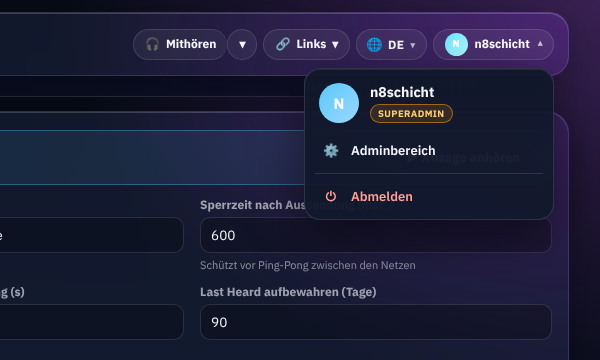
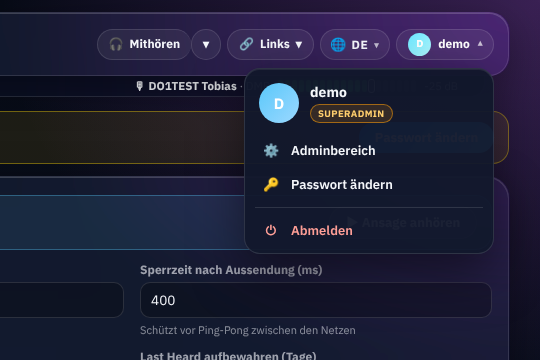
1.29.1: Eigenes Passwort ändern – auch als Superadmin
- eigene Zeile in 👥 Benutzer nicht mehr gesperrt: Formular „Mein Konto“ (Anzeigename, aktuelles Passwort, neues Passwort 2x)
- Benutzermenü: 🔑 Passwort ändern; Hinweis Standard-Login führt direkt dorthin
- Server: eigenes Konto nur mit aktuellem Passwort (1 s Bremse), andere Anmeldungen werden beendet, Rolle/Sperre tabu
- Superadmin-Hinweis zum Backup-Schlüssel; Doku SICHERHEIT/BACKUP/README, Bildschirmfotos, CHANGELOG
- Test tests/test_own_password.py

Claude-Session: https://claude.ai/code/session_01J5RG2pZbR7RFTTq8Gdx1vy

diff --git a/n8crosslink/web/static/n8-kit.js b/n8crosslink/web/static/n8-kit.js
@@ -953,16 +953,24 @@
             const load = async () => {
                 let users; try { users = await A.list(); } catch (e) { paint(card('👥 Benutzer', msg(e))); return; }
                 const inp = (f, u) => `<input name="${f}" placeholder="${esc(t(FIELD[f][0]))}" ${FIELD[f][1] === 'numeric' ? 'inputmode="numeric"' : ''} value="${esc(u ? (u[f] ?? '') : '')}">`;
+                const isMe = u => me && u.username === me.username;
                 const rows = users.map((u, i) => {
                     const lk = locked(u);
                     return `<tr class="${u.disabled ? 'off' : ''}"><td><span class="n8-user-c">${o.avatar ? o.avatar(u) : `<span class="n8-av">${initials(u)}</span>`}
-                            <span><b>${esc(u.username)}</b>${u.display_name ? `<br><small>${esc(u.display_name)}</small>` : ''}</span></span></td>
+                            <span><b>${esc(u.username)}</b>${isMe(u) ? ` <span class="n8-role n8-role-me">${esc(t('du'))}</span>` : ''}${u.display_name ? `<br><small>${esc(u.display_name)}</small>` : ''}</span></span></td>
                         <td>${role(u.role)}${u.disabled ? ` <span class="n8-role n8-role-off">${esc(t('gesperrt'))}</span>` : ''}</td>
                         ${fields.filter(f => f !== 'display_name').map(f => `<td>${esc(u[f] || '–')}</td>`).join('')}
                         ${cols.map(c => `<td>${c.html(u)}</td>`).join('')}
                         <td>${esc(ago(u.last_login))}</td>
                         <td class="n8-act">${(o.actions ? o.actions(u) : []).map((a, k) => `<button type="button" class="n8-btn sm" data-x="${i}:${k}">${esc(t(a.label))}</button>`).join('')}${lk ? `<small class="n8-dim">${esc(lk)}</small>` : `<button type="button" class="n8-btn sm" data-edit="${i}">${esc(t('Bearbeiten'))}</button>`}</td></tr>
-                        ${lk ? '' : `<tr class="n8-edit" data-row="${i}" hidden><td colspan="${4 + cols.length + fields.filter(f => f !== 'display_name').length}"><form class="n8-iform" data-i="${i}">
+                        ${lk ? '' : isMe(u) ? `<tr class="n8-edit n8-self" data-row="${i}" ${o.openSelf ? '' : 'hidden'}><td colspan="${4 + cols.length + fields.filter(f => f !== 'display_name').length}"><form class="n8-iform" data-i="${i}" data-self="1">
+                            <b class="n8-self-h">🔑 ${esc(t('Mein Konto'))}</b>
+                            ${fields.map(f => inp(f, u)).join('')}
+                            <input name="current_password" type="password" placeholder="${esc(t('Aktuelles Passwort'))}" autocomplete="current-password">
+                            <input name="password" type="password" placeholder="${esc(t('Neues Passwort (min. {n})').replace('{n}', minPw))}" minlength="${minPw}" autocomplete="new-password">
+                            <input name="password2" type="password" placeholder="${esc(t('Neues Passwort wiederholen'))}" autocomplete="new-password">
+                            <button class="n8-btn primary sm" type="submit">${esc(t('Speichern'))}</button>
+                            <small class="n8-dim">${esc(t(o.selfNote || 'Rolle, Sperre und Löschen gehen beim eigenen Konto nicht. Nach dem Passwortwechsel werden deine anderen Anmeldungen beendet.'))}</small></form></td></tr>` : `<tr class="n8-edit" data-row="${i}" hidden><td colspan="${4 + cols.length + fields.filter(f => f !== 'display_name').length}"><form class="n8-iform" data-i="${i}">
                             ${fields.map(f => inp(f, u)).join('')}
                             <input name="password" type="password" placeholder="${esc(t('Neues Passwort (optional)'))}" autocomplete="new-password">
                             <select name="role">${opts(u.role)}</select>
@@ -988,8 +996,21 @@
                 el.querySelectorAll('[data-edit]').forEach(b => b.onclick = () => { const r = el.querySelector(`tr[data-row="${b.dataset.edit}"]`); r.hidden = !r.hidden; });
                 el.querySelectorAll('[data-x]').forEach(b => b.onclick = () => { const [i, k] = b.dataset.x.split(':').map(Number); o.actions(users[i])[k].run(users[i], load); });
                 el.querySelectorAll('form[data-i]').forEach(f => f.onsubmit = async e => {
-                    e.preventDefault(); const d = fd(f); if (!d.password) delete d.password;
-                    try { await A.update(users[f.dataset.i], d); toast(t('Gespeichert')); load(); } catch (x) { toast(x.message, true); }
+                    e.preventDefault(); const d = fd(f);
+                    if (f.dataset.self) {
+                        if (d.password) {
+                            if (d.password !== d.password2) { toast(t('Die beiden neuen Passwörter stimmen nicht überein'), true); return; }
+                            if (!d.current_password) { toast(t('Bitte das aktuelle Passwort eingeben'), true); return; }
+                        } else { delete d.current_password; delete d.password2; }
+                    }
+                    if (!d.password) delete d.password;
+                    try {
+                        const r = await A.update(users[f.dataset.i], d);
+                        if (r && r.password_changed) toast(t('Passwort geändert') + (r.sessions_ended ? ' · ' + t('{n} andere Anmeldung(en) beendet').replace('{n}', r.sessions_ended) : ''));
+                        else toast(t('Gespeichert'));
+                        if (r && r.password_changed && o.onSelfPassword) o.onSelfPassword(users[f.dataset.i]);
+                        o.openSelf = false; load();
+                    } catch (x) { toast(x.message, true); }
                 });
                 el.querySelectorAll('[data-del]').forEach(b => b.onclick = async () => {
                     if (!b.dataset.armed) { b.dataset.armed = '1'; b.textContent = t('Wirklich löschen?'); return; }
@@ -1184,6 +1205,7 @@
             // 1.4.0: Benutzer & Zugang, Netz, Ports & Domains
             '🌐 Netz, Ports & Domains': '🌐 Network, ports & domains', '👥 Benutzer': '👥 Users', '🔑 Sitzungen': '🔑 Sessions', '📜 Protokoll': '📜 Log',
             'Benutzer': 'User', 'Rolle': 'Role', 'Letzte Anmeldung': 'Last login', 'Bearbeiten': 'Edit', 'gesperrt': 'disabled', 'Anzeigename': 'Display name',
+            'Mein Konto': 'My account', 'Aktuelles Passwort': 'Current password', 'Neues Passwort (min. {n})': 'New password (min. {n})', 'Neues Passwort wiederholen': 'Repeat new password', 'Passwort geändert': 'Password changed', '{n} andere Anmeldung(en) beendet': '{n} other login(s) ended', 'Die beiden neuen Passwörter stimmen nicht überein': 'The two new passwords do not match', 'Bitte das aktuelle Passwort eingeben': 'Please enter the current password', 'du': 'you', 'Rolle, Sperre und Löschen gehen beim eigenen Konto nicht. Nach dem Passwortwechsel werden deine anderen Anmeldungen beendet.': 'Role, lock and delete are not available for your own account. After changing the password, your other logins are ended.', 'Passwort ändern': 'Change password',
             'Rufzeichen': 'Callsign', 'Benutzername': 'Username', 'Passwort (min. {n})': 'Password (min. {n})', 'Neues Passwort (optional)': 'New password (optional)',
             'Benutzer anlegen': 'Add user', 'Löschen': 'Delete', 'Wirklich löschen?': 'Really delete?', 'Benutzer angelegt': 'User created', 'Benutzer gelöscht': 'User deleted',
             'nur Superadmin': 'superadmin only', 'Superadmin': 'Superadmin', 'Admin': 'Admin', 'Betrachter': 'Viewer', 'Autor': 'Author', 'Redakteur': 'Editor',

diff --git a/n8crosslink/web/static/crosslink.js b/n8crosslink/web/static/crosslink.js
@@ -530,6 +530,7 @@ async function loadMe() {
     onLogout: async () => { await api('/api/logout', { method: 'POST' }); await loadMe(); showTab('live'); },
     items: [
       { icon: '⚙', label: 'Adminbereich', onClick: () => showTab('admin') },
+      { icon: '🔑', label: 'Passwort ändern', onClick: () => openOwnAccount() },
     ],
   });
   if (S.me.user) checkCrashes(before === false);      // gerade angemeldet: neue Abstürze sofort zeigen
@@ -846,7 +847,9 @@ function accessView(name) {
     roles: [{ id: 'superadmin', label: 'Superadmin', assign: 'superadmin' }, { id: 'admin', label: 'Admin', assign: 'all' }],
     fields: ['display_name'], toast: (m, bad) => toast((bad ? '⚠ ' : '✅ ') + m),
     intro: 'Wer sich am Adminbereich anmelden darf. Superadmins dürfen zusätzlich Backups wiederherstellen, alles zurücksetzen und andere Superadmins verwalten.',
-    locked: (u, me) => u.username === me.username ? 'du' : (u.role === 'superadmin' && me.role !== 'superadmin' ? 'nur Superadmin' : ''),
+    locked: (u, me) => u.username === me.username ? '' : (u.role === 'superadmin' && me.role !== 'superadmin' ? 'nur Superadmin' : ''),
+    openSelf: name === 'users' && S.openSelf ? (S.openSelf = false, true) : false,
+    onSelfPassword: () => { if (S.me.role === 'superadmin') toast('🔐 Neue Backups verschlüsselt jetzt das neue Passwort. Ältere Backups öffnest du weiter mit dem alten Passwort.'); loadMe(); },
   });
 }
 
@@ -1066,7 +1069,8 @@ async function startUpdate(u) {
     timeout: 600000,
   });
 }
-$('#pwChangeBtn')?.addEventListener('click', () => { S.adminSec = 'users'; showTab('admin'); });
+function openOwnAccount() { S.openSelf = true; S.adminSec = 'users'; showTab('admin'); }
+$('#pwChangeBtn')?.addEventListener('click', openOwnAccount);
 
 $('#spOk').addEventListener('click', () => $('#statusModal').classList.remove('open'));
 

diff --git a/n8crosslink/web/static/n8-kit.css b/n8crosslink/web/static/n8-kit.css
@@ -404,3 +404,8 @@ html[data-theme-mode=light] :is(.n8-iform > input, .n8-iform > select, .n8-in) {
   .n8-tbl td.n8-num .n8-in { width: 90px; }
 }
 .n8-tbl select.n8-target { min-width: 180px; width: auto; }
+/* 👥 eigenes Konto: „du“-Kennzeichen und Formular „Mein Konto“ (Passwort nur mit dem aktuellen Passwort) */
+.n8-role-me { color: #8fdcff; border-color: rgba(90, 200, 250, .5); background: rgba(90, 200, 250, .12); }
+.n8-self .n8-iform { flex-wrap: wrap; }
+.n8-self-h { align-self: center; margin-right: 4px; white-space: nowrap; }
+.n8-self small { flex-basis: 100%; }

diff --git a/tests/test_own_password.py b/tests/test_own_password.py
@@ -1,0 +1,61 @@
+#!/usr/bin/env python3
+"""👥 Eigenes Konto: auch ein Superadmin ändert sein Passwort selbst – nur mit dem aktuellen Passwort,
+andere Anmeldungen enden, die aktuelle bleibt, Rolle/Sperre des eigenen Kontos bleiben tabu.
+
+  python3 tests/test_own_password.py      (oder pytest)
+"""
+from __future__ import annotations
+
+import os
+import sys
+import tempfile
+from pathlib import Path
+
+sys.path.insert(0, str(Path(__file__).resolve().parent.parent))
+
+from fastapi.testclient import TestClient  # noqa: E402
+
+from n8crosslink.app import Bridge  # noqa: E402
+from n8crosslink.db import Database  # noqa: E402
+from n8crosslink.web.server import create_app  # noqa: E402
+
+
+def client(app):
+    return TestClient(app, headers={"X-N8": "1"})
+
+
+def test_superadmin_changes_own_password():
+    db = Database(os.path.join(tempfile.mkdtemp(), "t.db"))
+    db.set_user("chef", "altes-passwort", "superadmin")
+    app = create_app(Bridge(db))
+    a, b = client(app), client(app)
+    for c in (a, b):
+        assert c.post("/api/login", json={"username": "chef", "password": "altes-passwort"}).status_code == 200
+    url = "/api/admin/users/chef"
+    # ohne / mit falschem aktuellem Passwort: abgelehnt
+    assert a.patch(url, json={"password": "neues-passwort1"}).status_code == 403
+    assert a.patch(url, json={"password": "neues-passwort1", "current_password": "falsch"}).status_code == 403
+    # Wiederholung passt nicht / zu kurz / gleich wie alt
+    assert a.patch(url, json={"password": "neues-passwort1", "password2": "anders", "current_password": "altes-passwort"}).status_code == 400
+    assert a.patch(url, json={"password": "kurz", "current_password": "altes-passwort"}).status_code == 400
+    assert a.patch(url, json={"password": "altes-passwort", "current_password": "altes-passwort"}).status_code == 400
+    # eigene Rolle / Sperre: nein
+    assert a.patch(url, json={"role": "admin"}).status_code == 400
+    assert a.patch(url, json={"disabled": True}).status_code == 400
+    # richtig
+    r = a.patch(url, json={"password": "neues-passwort1", "password2": "neues-passwort1", "current_password": "altes-passwort",
+                           "role": "superadmin", "disabled": False, "display_name": "Der Chef"})
+    assert r.status_code == 200 and r.json()["password_changed"] and r.json()["sessions_ended"] == 1, r.text
+    assert db.check_login("chef", "neues-passwort1") and not db.check_login("chef", "altes-passwort")
+    assert db.user_role("chef") == "superadmin"
+    assert a.get("/api/me").json()["user"] == "chef"          # diese Anmeldung bleibt
+    assert b.get("/api/me").json()["user"] is None            # die andere ist beendet
+    h = db.conn.execute("SELECT pw_hash FROM users WHERE username='chef'").fetchone()[0]
+    assert h.startswith("pbkdf2_sha256$") and "neues-passwort1" not in h
+    # nur Anzeigename, ohne Passwort: geht ohne aktuelles Passwort
+    assert a.patch(url, json={"display_name": "Chef"}).json()["password_changed"] is False
+
+
+if __name__ == "__main__":
+    test_superadmin_changes_own_password()
+    print("✅ Eigenes Passwort: Prüfungen ok")

diff --git a/n8crosslink/web/server.py b/n8crosslink/web/server.py
@@ -955,10 +955,12 @@ def create_app(bridge) -> FastAPI:  # noqa: ANN001, C901
         return {"ok": True}
 
     @app.patch("/api/admin/users/{name}")
-    async def edit_user(name: str, data: dict = Body(...), me_: str = Depends(require_admin)) -> dict:
+    async def edit_user(name: str, request: Request, data: dict = Body(...), me_: str = Depends(require_admin)) -> dict:
         cur = db.user_role(name)
         if not cur:
             raise HTTPException(404, "Benutzer nicht gefunden")
+        if name == me_:
+            return await _edit_self(name, request, data)
         _may_manage(me_, cur)
         role = data.get("role")
         if role is not None:
@@ -977,6 +979,33 @@ def create_app(bridge) -> FastAPI:  # noqa: ANN001, C901
         _dflt["t"] = 0.0
         bridge.router.event("info", f"Benutzer {name} geändert durch {me_}")
         return {"ok": True}
+
+    async def _edit_self(name: str, request: Request, data: dict) -> dict:
+        """Eigenes Konto (auch als Superadmin): Anzeigename und Passwort – nur mit dem aktuellen Passwort.
+        Rolle, Sperre und Löschen gibt es für das eigene Konto nicht."""
+        if data.get("role") not in (None, "", db.user_role(name)) or data.get("disabled"):
+            raise HTTPException(400, "Die eigene Rolle und Sperre lassen sich nicht ändern")
+        pw = str(data.get("password") or "")
+        if pw:
+            if len(pw) < 8:
+                raise HTTPException(400, "Passwort min. 8 Zeichen")
+            if "password2" in data and str(data.get("password2") or "") != pw:
+                raise HTTPException(400, "Die beiden neuen Passwörter stimmen nicht überein")
+            ok = await asyncio.to_thread(db.verify_user, name, str(data.get("current_password") or ""))
+            if not ok:
+                await asyncio.sleep(1.0)                 # Raten bremsen
+                raise HTTPException(403, "Aktuelles Passwort ist falsch")
+            if pw == str(data.get("current_password") or ""):
+                raise HTTPException(400, "Das neue Passwort ist dasselbe wie das alte")
+        db.update_user(name, display_name=data.get("display_name"), password=pw or None)
+        ended = db.end_other_sessions(name, request.cookies.get(COOKIE)) if pw else 0
+        _dflt["t"] = 0.0
+        if pw:
+            bridge.router.event("info", f"Benutzer {name} hat das eigene Passwort geändert"
+                                        + (f" – {ended} andere Anmeldung(en) beendet" if ended else ""))
+        else:
+            bridge.router.event("info", f"Benutzer {name} hat das eigene Konto geändert")
+        return {"ok": True, "password_changed": bool(pw), "sessions_ended": ended}
 
     @app.delete("/api/admin/users/{name}")
     async def del_user(name: str, me_: str = Depends(require_admin)) -> dict:

diff --git a/n8crosslink/db.py b/n8crosslink/db.py
@@ -326,6 +326,12 @@ class Database:
         if scope == "all":
             self.set_user(DEFAULT_USER, DEFAULT_PASSWORD, "superadmin")
 
+    def verify_user(self, username: str, password: str) -> bool:
+        """Passwort prüfen, ohne „letzte Anmeldung“ zu ändern (z. B. vor dem eigenen Passwortwechsel)."""
+        with self.lock:
+            row = self.conn.execute("SELECT pw_hash FROM users WHERE username=?", (username,)).fetchone()
+        return bool(row) and verify_password(password, row["pw_hash"])
+
     def check_login(self, username: str, password: str) -> bool:
         with self.lock:
             row = self.conn.execute("SELECT pw_hash, COALESCE(disabled, 0) AS disabled FROM users WHERE username=?", (username,)).fetchone()
@@ -391,6 +397,14 @@ class Database:
                     self.conn.commit()
                 return row["username"]
         return None
+
+    def end_other_sessions(self, username: str, keep_token: str | None) -> int:
+        """Nach eigenem Passwortwechsel: alle anderen Anmeldungen dieses Benutzers beenden, die aktuelle behalten."""
+        keep = self._skey(keep_token) if keep_token else ""
+        with self.lock:
+            n = self.conn.execute("DELETE FROM sessions WHERE username=? AND token<>?", (username, keep)).rowcount
+            self.conn.commit()
+        return n
 
     def end_session(self, token: str) -> None:
         with self.lock:

diff --git a/n8crosslink/__init__.py b/n8crosslink/__init__.py
@@ -1,2 +1,2 @@
 """N8 Crosslink – FRN · DMR · Zello Bridge im Die-N8schicht-Design."""
-__version__ = "1.29.0"
+__version__ = "1.29.1"

diff --git a/README.md b/README.md
@@ -40,7 +40,7 @@ Alles läuft in **einem** Python-Dienst mit Live-Dashboard und Adminportal – i
 | 💾 **Backup** | Alles als vollständig verschlüsselte Datei zum Download (AES-256-GCM). **Der Schlüssel ist das Superadmin-Passwort – im Passwortsafe aufbewahren!** Wiederherstellen im Webinterface, per CLI oder direkt im Installer. |
 | ♻ **Neuanfang** | Zurücksetzen im Webinterface (Verlauf / Einstellungen / alles) und `uninstall.sh` mit „Daten behalten“ oder „komplett entfernen“, inkl. Wiedereinschalten der alten Dienste |
 | 📊 **Dashboard** | On-Air-Anzeige mit Pegel und Zeit, Netzkarten mit RX/TX – **LEDs: 🔴 Rot = Senden, 🟣 Magenta = Empfangen, 🟢 Grün = Dienst ok** –, Last Heard, FRN-Raumliste, Ereignisse, Statistik (Heute … 90 Tage) |
-| ⚙ **Adminportal** | Baum-Menü und Bereich *System* wie in allen N8-Systemen, alle Einstellungen in SQLite, **👥 Benutzer & 🔑 Sitzungen** wie in HBlink4 (Rollen, gesperrt, letzte Anmeldung, Sitzungen beenden), **🌐 Netz, Ports & Domains** (alle Ports, Let's-Encrypt-Domains) an einer Stelle, Bridge-/Dienst-Neustart, ID-Datenbank-Update, Export/Import |
+| ⚙ **Adminportal** | Baum-Menü und Bereich *System* wie in allen N8-Systemen, alle Einstellungen in SQLite, **👥 Benutzer & 🔑 Sitzungen** wie in HBlink4 (Rollen, gesperrt, letzte Anmeldung, Sitzungen beenden; **eigenes Passwort ändern – auch als Superadmin** über 🔑 im Benutzermenü), **🌐 Netz, Ports & Domains** (alle Ports, Let's-Encrypt-Domains) an einer Stelle, Bridge-/Dienst-Neustart, ID-Datenbank-Update, Export/Import |
 | 🔊 **Sprachansage & Sprechername** | Optional: Computerstimme sagt das Rufzeichen am Anfang des Durchgangs an (espeak-ng, Buchstaben oder NATO, je Zielnetz). Sprechername als FRN-Textnachricht – öffentlich oder **privat nur an ausgewählte Stationen** |
 | 🐕 **Watchdogs** | Jede Verbindung (FRN, DMR, Zello) baut sich nach einem Abbruch selbst neu auf; zusätzlich baut ein Watchdog ein Netz komplett neu auf, wenn es zu lange offline bleibt oder seine Verbindungsschleife stirbt. Der Vocoder wird bei Ausfall neu geöffnet (AMBEserver im Lockstep mit neuem Socket nach jedem Timeout), und der systemd-Watchdog startet den Dienst neu, falls er hängt. **💓 Keep-Alive** von außen (jede Minute als root): prüft jedes Netz, startet nach 5 Minuten Ausfall neu, erkennt Internet-Ausfälle, meldet sich bei Uptime Kuma / Healthchecks.io |
 | 💥 **Absturz-Erkennung** | Jeder Absturz, Hänger und Notfall-Neustart wird mit Ursache, betroffenem Teil (FRN, DMR, Zello, Vocoder, Datenbank …) und vollständigem Protokoll festgehalten, der Dienst automatisch neu gestartet; neue Befunde erscheinen nach dem Admin-Login als Hinweisfenster (System → 💥 Abstürze) |

diff --git a/CHANGELOG.md b/CHANGELOG.md
@@ -2,6 +2,29 @@
 
 Alle Änderungen an N8 Crosslink. Versionierung nach [SemVer](https://semver.org/lang/de/).
 
+## [1.29.1] – 2026-11-27
+
+### 🔑 Eigenes Passwort ändern – auch als Superadmin
+
+- Bisher war die **eigene Zeile** in *👥 Benutzer* gesperrt („du“): Ein Superadmin konnte sein Passwort nur von einem zweiten
+  Superadmin ändern lassen. Jetzt ändert **jeder sein eigenes Passwort selbst**.
+- Neuer Punkt im Benutzermenü oben rechts: **🔑 Passwort ändern**. Er öffnet *Admin → Benutzer* mit dem Formular **🔑 Mein Konto**
+  (eigene Zeile, gekennzeichnet mit **DU**). Auch der Knopf *Passwort ändern* im Hinweis zum Standard-Login führt direkt dorthin.
+- **Mein Konto:** Anzeigename · **aktuelles Passwort** · neues Passwort (min. 8 Zeichen) · neues Passwort wiederholen.
+  - Ohne oder mit falschem aktuellem Passwort wird abgelehnt (mit 1 s Bremse gegen Raten), ebenso bei abweichender Wiederholung
+    oder wenn das neue Passwort dem alten gleicht.
+  - Nach dem Wechsel werden **alle anderen Anmeldungen** dieses Kontos beendet; die aktuelle bleibt. Die Meldung sagt, wie viele.
+  - Eintrag im 📜 Protokoll: „Benutzer … hat das eigene Passwort geändert“.
+  - Rolle, Sperre und Löschen gibt es für das eigene Konto weiterhin nicht (auch nicht über die API).
+- Gespeichert wird wie bisher nur ein **PBKDF2-SHA256-Hash** (200 000 Runden, eigenes Salz) in der SQLite-Datenbank.
+- **Superadmin:** Nach dem Wechsel erscheint der Hinweis, dass neue Backups mit dem neuen Passwort verschlüsselt werden und ältere
+  weiter mit dem alten zu öffnen sind (auch in [docs/BACKUP.md](docs/BACKUP.md)).
+- Technik: `PATCH /api/admin/users/<eigener Name>` mit `current_password`, `password`, `password2`; neue Funktionen
+  `Database.verify_user()` (prüft, ohne „letzte Anmeldung“ zu ändern) und `Database.end_other_sessions()`. Das N8 Kit
+  (`n8-kit.js`, `n8-kit.css`) kennt dafür das Formular „Mein Konto“ (`openSelf`, `onSelfPassword`), übersetzt ins Englische.
+- Neuer Test `tests/test_own_password.py`. Doku: [docs/SICHERHEIT.md](docs/SICHERHEIT.md) Abschnitt „🔑 Eigenes Passwort ändern“
+  mit neuem Bildschirmfoto `admin-mein-konto.png`; Bildschirmfoto `benutzermenue.png` erneuert.
+
 ## [1.29.0] – 2026-11-27
 
 ### 📊 Flüssige Pegelanzeige und Audio-Spektrum im On-Air-Display

diff --git a/docs/SICHERHEIT.md b/docs/SICHERHEIT.md
@@ -45,7 +45,25 @@ Sitzungs-Cookie `HttpOnly`, `SameSite=Strict`, über HTTPS `Secure`. Jede schrei
 Das **Anmeldefenster** ist in allen N8-Systemen gleich: Logo und Titel des Systems, Benutzername und Passwort mit 👁 zum Anzeigen, Hinweis bei
 eingeschalteter Feststelltaste, Schalter „Angemeldet bleiben“, Sprachmenü und ein Hinweis, ob die Verbindung verschlüsselt ist. Ein falsches
 Passwort oder eine Sperre wird direkt im Fenster gemeldet. Angemeldet zeigt die Kopfleiste **Avatar + Name ▾** – das Menü darunter enthält
-Rolle, Konto bzw. Passwort, den Adminbereich und **Abmelden**.
+Rolle, Konto bzw. Passwort, den Adminbereich, **🔑 Passwort ändern** und **Abmelden**.
+
+### 🔑 Eigenes Passwort ändern (auch als Superadmin, seit 1.29.1)
+
+![Mein Konto](screenshots/admin-mein-konto.png)
+
+Jeder angemeldete Benutzer – **auch der Superadmin** – ändert sein Passwort selbst: Benutzermenü → **🔑 Passwort ändern**
+(oder *⚙ Admin → 👥 Benutzer & Zugang → Benutzer*, eigene Zeile mit **DU** → *Bearbeiten*). Es öffnet sich **🔑 Mein Konto**:
+
+- **Aktuelles Passwort** ist Pflicht (falsche Eingabe wird gebremst), das neue Passwort braucht mindestens 8 Zeichen und wird
+  **zweimal** eingegeben; dasselbe wie das alte geht nicht.
+- Danach werden **alle anderen Anmeldungen** dieses Kontos beendet (andere Browser/Geräte), die aktuelle bleibt bestehen. Im
+  📜 Protokoll steht „Benutzer … hat das eigene Passwort geändert“.
+- Rolle, Sperre und Löschen gibt es für das eigene Konto nicht – so kann sich niemand aus Versehen aussperren.
+- Gespeichert wird nur ein **PBKDF2-SHA256-Hash** (200 000 Runden, eigenes Zufalls-Salz je Benutzer) in der SQLite-Datenbank,
+  nie das Passwort selbst.
+- **Superadmin und Backups:** Neue Backups werden ab sofort mit dem **neuen** Passwort verschlüsselt. Ältere Backups öffnet man weiter
+  mit dem Passwort, das zum Zeitpunkt des Backups galt (siehe [BACKUP.md](BACKUP.md)) – nach dem Wechsel am besten gleich ein
+  neues Backup machen.
 
 
 Solange der Standard-Login `n8schicht / n8schicht` gilt, sind alle Admin-Änderungen gesperrt – außer dem Ändern des Passworts unter *Admin → Benutzer & Zugang*. Mithören läuft über einen eigenen WebSocket, der nur angemeldete Admins annimmt.

diff --git a/docs/BACKUP.md b/docs/BACKUP.md
@@ -3,6 +3,7 @@
 > ## 🔐 WICHTIG – das Superadmin-Passwort ist der Schlüssel
 > Jedes Backup ist **vollständig verschlüsselt**. Der Schlüssel ist das **Passwort des Superadmins zum Zeitpunkt des Backups**.
 > **Ohne dieses Passwort lässt sich das Backup nicht wiederherstellen** – auch nicht durch den Entwickler.
+> Änderst du dein Superadmin-Passwort (Benutzermenü → 🔑 Passwort ändern), gilt für **neue** Backups das neue Passwort, für ältere weiter das alte – mach nach dem Wechsel gleich ein neues Backup.
 > Bewahre das Superadmin-Passwort im **Passwortsafe** auf, am besten zusammen mit dem Namen der Backupdatei.
 > Wird das Passwort später geändert, brauchen ältere Backups weiterhin das alte Passwort.
 
